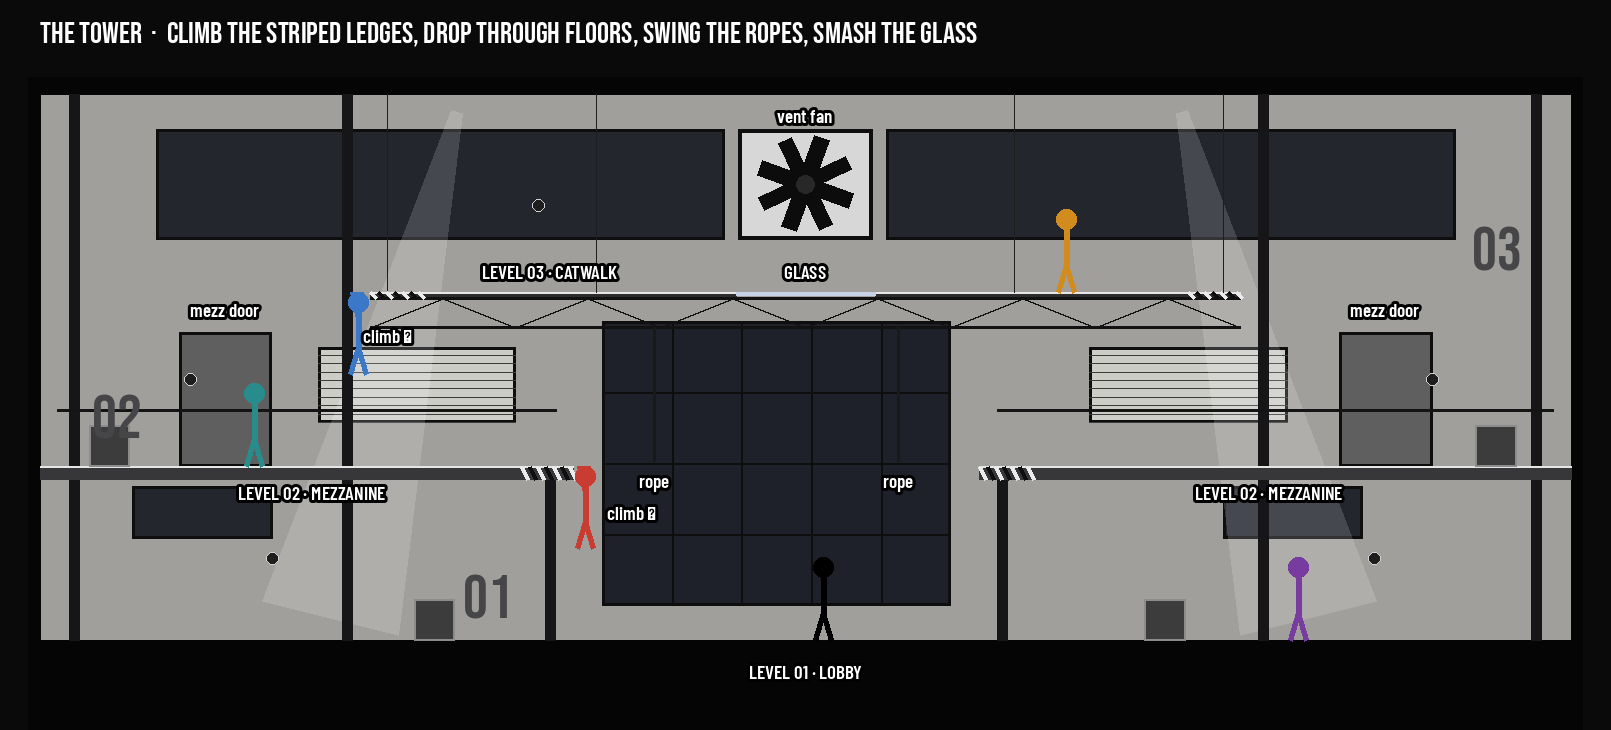
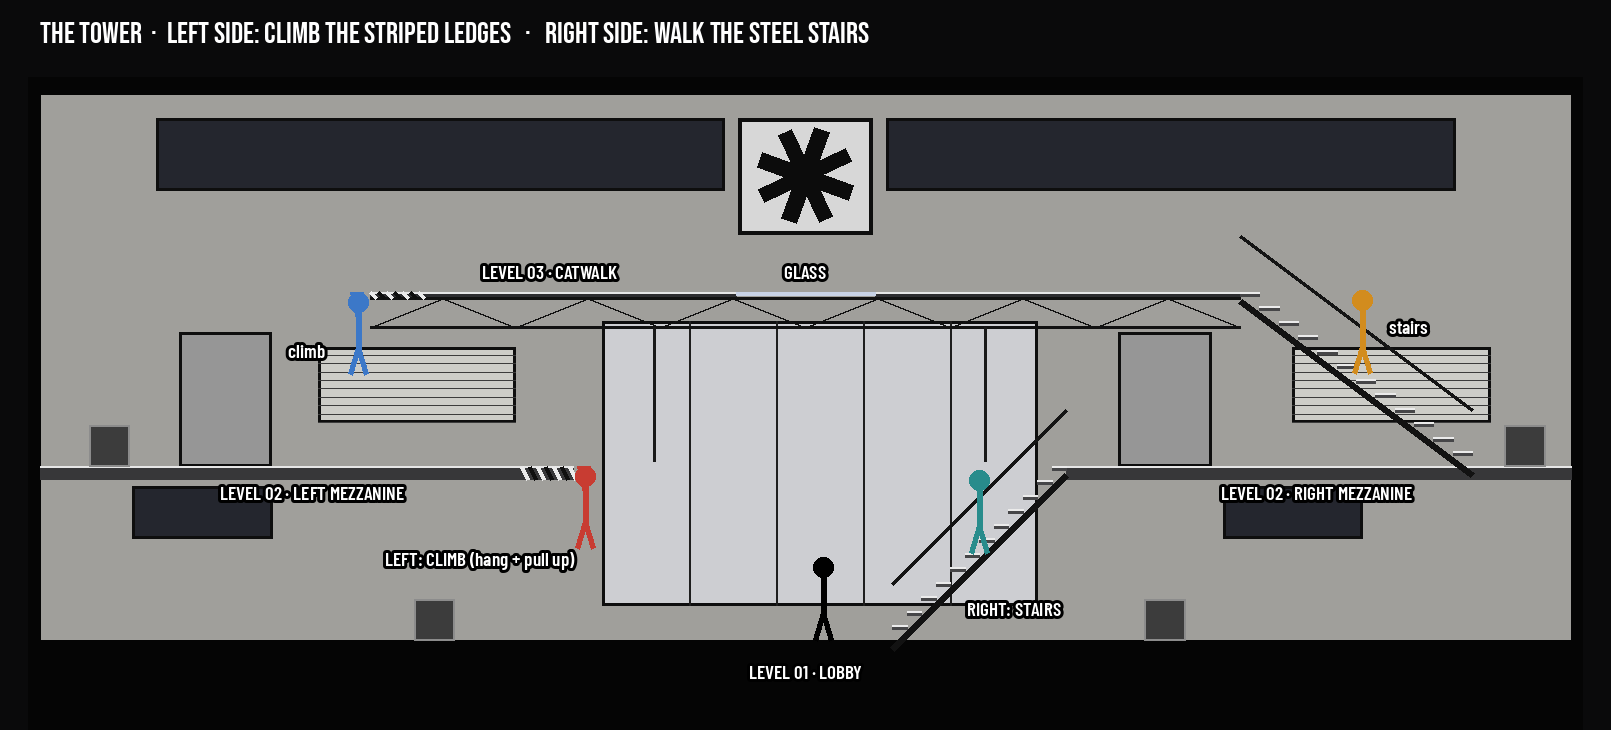
Tower: steel stairs on the right side (lobby to mezzanine, mezzanine to catwalk), climbing kept on the left
Claude-Session: https://claude.ai/code/session_015hMH19Q3ffBpefttWAikbH

Changed region(s): [[0.031, 0.1205, 0.9621, 0.874], [0.0931, 0.0301, 0.6207, 0.0603], [0.031, 0.663, 0.0621, 0.874]]

diff --git a/Assets/Scripts/Level/LevelNav.cs b/Assets/Scripts/Level/LevelNav.cs
@@ -26,31 +26,56 @@ namespace ProjectInk
         public float FootX => x - dir * 0.25f;
     }
 
+    /// <summary>A flight of stairs: walk on at the bottom (x0, y0) and up to the top (x1, y1),
+    /// joining two platforms.</summary>
+    public struct Stair
+    {
+        public float x0, y0, x1, y1;
+        public int bottom, top;
+        public Stair(float x0, float y0, float x1, float y1, int bottom, int top)
+        { this.x0 = x0; this.y0 = y0; this.x1 = x1; this.y1 = y1; this.bottom = bottom; this.top = top; }
+        public int UpDir => x1 > x0 ? 1 : -1;
+    }
+
     /// <summary>The tower: ground, two mezzanines with an open atrium between them, and a high
     /// catwalk (with a glass section in the middle) across the atrium. Shared by the scene
     /// builder (geometry) and the game (navigation), so the two always agree.</summary>
     public static class TowerPlan
     {
         public const float HalfW = 13.2f, RoofY = 9.4f, MezzY = 3.0f, CatY = 6.0f;
-        public const float MezzInnerL = -4.0f, MezzInnerR = 3.0f, CatEnd = 7.5f, GlassHalf = 1.2f;
+        public const float MezzInnerL = -4.0f, MezzInnerR = 4.5f, CatEnd = 7.5f, GlassHalf = 1.2f;
+        // the right side has stairs: a grand flight from the lobby to the right mezzanine (rising
+        // in front of the atrium window), and a flight from the mezzanine up to the catwalk
+        public const float StairLowX0 = 1.5f, StairUpX0 = 11.5f;
 
         public static readonly Platform[] Platforms =
         {
-            new Platform(-HalfW, HalfW, 0f, false),                     // 0 ground (solid)
+            new Platform(-HalfW, StairLowX0 - 0.1f, 0f, false),        // 0 lobby, left of the grand stairs (solid)
             new Platform(-HalfW, MezzInnerL, MezzY),                    // 1 left mezzanine
             new Platform(MezzInnerR, HalfW, MezzY),                     // 2 right mezzanine
             new Platform(-CatEnd, -GlassHalf, CatY),                    // 3 catwalk, left
             new Platform(-GlassHalf, GlassHalf, CatY, true, true),      // 4 the glass panel
             new Platform(GlassHalf, CatEnd, CatY),                      // 5 catwalk, right
+            new Platform(StairLowX0 + 0.5f, HalfW, 0f, false),          // 6 lobby, right of and under the grand stairs
         };
 
+        /// <summary>The left side climbs: hang from the edge and pull up.</summary>
         public static readonly Ledge[] Ledges =
         {
-            new Ledge(MezzInnerL, MezzY, -1),      // ground → left mezzanine (its inner edge)
-            new Ledge(MezzInnerR, MezzY, +1),      // ground → right mezzanine
+            new Ledge(MezzInnerL, MezzY, -1),      // lobby → left mezzanine (its inner edge)
             new Ledge(-CatEnd, CatY, +1),          // left mezzanine → catwalk (its left end)
-            new Ledge(CatEnd, CatY, -1),           // right mezzanine → catwalk
         };
+
+        /// <summary>The right side walks: two flights of open steel stairs.</summary>
+        public static readonly Stair[] Stairs =
+        {
+            new Stair(StairLowX0, 0f, MezzInnerR, MezzY, 0, 2),        // lobby → right mezzanine
+            new Stair(StairUpX0, MezzY, CatEnd, CatY, 2, 5),           // right mezzanine → catwalk
+        };
+
+        /// <summary>Walks that are not just "touching": from under the grand stairs you can walk
+        /// out to the left side of the lobby (but walking right from there takes the stairs).</summary>
+        public static readonly (int from, int to, float x)[] ExtraWalks = { (6, 0, StairLowX0 - 0.4f) };
     }
 
     /// <summary>Route-finding across the building's levels. For every pair of platforms it
@@ -59,17 +84,21 @@ namespace ProjectInk
     /// below). A breadth-first search gives the first step of the shortest route.</summary>
     public static class LevelNav
     {
-        public enum StepKind { None, Walk, Climb, Drop }
+        public enum StepKind { None, Walk, Climb, Drop, Stairs }
         public struct Step
         {
             public StepKind kind;
             public float x;          // where to go to take the step
             public int ledge;        // for Climb
             public int to;           // the platform it leads to
+            public int dir;          // for Stairs: which way to keep walking once on them
         }
 
         static Platform[] platforms;
         static Ledge[] ledges;
+        static Stair[] stairs;
+        static (int from, int to, float x)[] extraWalks;
+        public static IReadOnlyList<Stair> StairList => stairs;
         public static bool Active => platforms != null;
         public static IReadOnlyList<Platform> Platforms => platforms;
         public static IReadOnlyList<Ledge> Ledges => ledges;
@@ -78,8 +107,12 @@ namespace ProjectInk
         public static void Init(LayoutKind kind)
         {
             broken.Clear();
-            if (kind == LayoutKind.Tower) { platforms = TowerPlan.Platforms; ledges = TowerPlan.Ledges; }
-            else { platforms = null; ledges = null; }
+            if (kind == LayoutKind.Tower)
+            {
+                platforms = TowerPlan.Platforms; ledges = TowerPlan.Ledges;
+                stairs = TowerPlan.Stairs; extraWalks = TowerPlan.ExtraWalks;
+            }
+            else { platforms = null; ledges = null; stairs = null; extraWalks = null; }
         }
 
         public static void SetBroken(int platform, bool isBroken)
@@ -184,6 +217,18 @@ namespace ProjectInk
                     var B = platforms[j];
                     yield return new Step { kind = StepKind.Walk, to = j, x = Mathf.Clamp(tx, B.x0 + 0.2f, B.x1 - 0.2f) };
                 }
+            // stairs: up from their bottom platform, down from their top one
+            if (stairs != null)
+                foreach (var st in stairs)
+                {
+                    if (st.bottom == a && !broken.Contains(st.top))
+                        yield return new Step { kind = StepKind.Stairs, to = st.top, x = st.x0, dir = st.UpDir };
+                    if (st.top == a && !broken.Contains(st.bottom))
+                        yield return new Step { kind = StepKind.Stairs, to = st.bottom, x = st.x1, dir = -st.UpDir };
+                }
+            if (extraWalks != null)
+                foreach (var w in extraWalks)
+                    if (w.from == a) yield return new Step { kind = StepKind.Walk, to = w.to, x = w.x };
             // climb: any ledge whose foot stands on this platform
             for (int k = 0; k < ledges.Length; k++)
             {

diff --git a/Assets/Scripts/Editor/TowerBuilder.cs b/Assets/Scripts/Editor/TowerBuilder.cs
@@ -80,8 +80,8 @@ namespace ProjectInk.EditorTools
                 new Rect(mL + 0.5f, 0.6f, (mR - mL) - 1.0f, 4.9f),                                  // the tall atrium window
                 new Rect(-11.2f, 7.75f, 9.8f, 1.25f), new Rect(1.4f, 7.75f, 9.8f, 1.25f),           // the skylight band (above heads on the catwalk)
             };
-            var offices = new List<Rect> { new Rect(-8.4f, 3.75f, 3.4f, 1.3f), new Rect(4.9f, 3.75f, 3.4f, 1.3f) };
-            var doors = new List<Rect> { new Rect(-10.8f, mezz, 1.6f, 2.3f), new Rect(9.2f, mezz, 1.6f, 2.3f) };
+            var offices = new List<Rect> { new Rect(-8.4f, 3.75f, 3.4f, 1.3f), new Rect(8.4f, 3.75f, 3.4f, 1.3f) };
+            var doors = new List<Rect> { new Rect(-10.8f, mezz, 1.6f, 2.3f), new Rect(5.4f, mezz, 1.6f, 2.3f) };
             var fanHole = new Rect(-1.15f, 7.0f, 2.3f, 2.0f);
             var openings = new List<Rect>(windows);
             openings.AddRange(offices);
@@ -185,6 +185,9 @@ namespace ProjectInk.EditorTools
             foreach (float x in new[] { -7.2f, -3.6f, 3.6f, 7.2f })
                 NoCollider(PrototypeBuilder.Box(env, "Hanger", new Vector3(x, (cat + roof) * 0.5f, cz1 + 0.05f), new Vector3(0.03f, roof - cat, 0.03f), steel));
 
+            // ------------------------------------------------------------ the stairs (right side)
+            foreach (var st in TowerPlan.Stairs) SteelStairs(env, st, steel, steelMid, edgeWhite);
+
             // ------------------------------------------------------------ the ledges: hazard stripes say "climb here"
             foreach (var lg in TowerPlan.Ledges)
             {
@@ -215,7 +218,7 @@ namespace ProjectInk.EditorTools
             EnvironmentBuilder.Crate(props, new Vector3(-6.4f, 0f, 0f), 0.7f, crateMat, crateEdge);
             EnvironmentBuilder.Crate(props, new Vector3(6.2f, 0f, 0f), 0.7f, crateMat, crateEdge);
             EnvironmentBuilder.Crate(props, new Vector3(-12.0f, mezz, 0f), 0.7f, crateMat, crateEdge);
-            EnvironmentBuilder.Crate(props, new Vector3(11.9f, mezz, 0f), 0.7f, crateMat, crateEdge);
+            EnvironmentBuilder.Crate(props, new Vector3(12.4f, mezz, 0f), 0.7f, crateMat, crateEdge);
 
             // ------------------------------------------------------------ light
             EnvironmentBuilder.Lamp(env, new Vector3(-8.0f, mezz - SlabThick, 1.6f), 0.35f, shade, bulb, coneMat, lampGlow);
@@ -302,6 +305,53 @@ namespace ProjectInk.EditorTools
             PrototypeBuilder.Box(parent, name, new Vector3(cx, top - thick * 0.5f, (front + back) * 0.5f), new Vector3(w, thick, back - front), body);
             NoCollider(PrototypeBuilder.Box(parent, name + "Lip", new Vector3(cx, top - 0.015f, front - 0.012f), new Vector3(w, 0.03f, 0.01f), lip));
             NoCollider(PrototypeBuilder.Box(parent, name + "Beam", new Vector3(cx, top - thick - 0.12f, front + 0.25f), new Vector3(w, 0.24f, 0.18f), beam));
+        }
+
+        /// <summary>An open steel staircase from (x0, y0) to (x1, y1): a thin walkable slope
+        /// (one-way: you can walk underneath it), open treads with white nosings, a stringer on
+        /// each side and a handrail along the back.</summary>
+        static void SteelStairs(Transform parent, Stair st, Material steel, Material tread, Material nosing)
+        {
+            var root = new GameObject("Stairs").transform;
+            root.SetParent(parent, false);
+            float dx = st.x1 - st.x0, dy = st.y1 - st.y0;
+            float len = Mathf.Sqrt(dx * dx + dy * dy);
+            float ang = Mathf.Atan2(dy, dx) * Mathf.Rad2Deg;
+            const float z0 = -0.5f, z1 = 1.3f;
+            // the walkable slope: a thin collider along the line of the tread nosings
+            var mid = new Vector3((st.x0 + st.x1) * 0.5f, (st.y0 + st.y1) * 0.5f, (z0 + z1) * 0.5f);
+            var dir = new Vector3(dx, dy, 0f) / len;
+            var normal = new Vector3(-dir.y, dir.x, 0f);
+            if (normal.y < 0f) normal = -normal;
+            var ramp = new GameObject("StairSlope").transform;
+            ramp.SetParent(root, false);
+            ramp.position = mid - normal * 0.05f;
+            ramp.rotation = Quaternion.Euler(0f, 0f, ang);
+            var col = ramp.gameObject.AddComponent<BoxCollider>();
+            col.size = new Vector3(len, 0.1f, z1 - z0);
+            ramp.gameObject.isStatic = true;
+            // treads
+            int steps = Mathf.Max(6, Mathf.RoundToInt(Mathf.Abs(dy) / 0.25f));
+            float rise = dy / steps, run = dx / steps;
+            for (int i = 0; i < steps; i++)
+            {
+                float x = st.x0 + run * (i + 0.5f), y = st.y0 + rise * (i + 0.5f);
+                NoCollider(PrototypeBuilder.Box(root, "Tread", new Vector3(x, y - 0.03f, (z0 + z1) * 0.5f), new Vector3(Mathf.Abs(run) + 0.02f, 0.06f, z1 - z0), tread));
+                NoCollider(PrototypeBuilder.Box(root, "TreadNosing", new Vector3(x, y - 0.01f, z0 - 0.012f), new Vector3(Mathf.Abs(run) + 0.02f, 0.025f, 0.01f), nosing));
+            }
+            // stringers, front and back, and the handrail
+            foreach (float z in new[] { z0 - 0.03f, z1 + 0.03f })
+            {
+                var s1 = NoCollider(PrototypeBuilder.Box(root, "Stringer", mid + Vector3.down * 0.16f + new Vector3(0f, 0f, z - mid.z), new Vector3(len + 0.1f, 0.22f, 0.05f), steel));
+                s1.rotation = Quaternion.Euler(0f, 0f, ang);
+            }
+            var rail = NoCollider(PrototypeBuilder.Box(root, "StairRail", mid + Vector3.up * 0.95f + new Vector3(0f, 0f, z1 + 0.05f - mid.z), new Vector3(len, 0.04f, 0.04f), steel));
+            rail.rotation = Quaternion.Euler(0f, 0f, ang);
+            for (int k = 0; k <= 4; k++)
+            {
+                var p = new Vector3(Mathf.Lerp(st.x0, st.x1, k / 4f), Mathf.Lerp(st.y0, st.y1, k / 4f), z1 + 0.05f);
+                NoCollider(PrototypeBuilder.Box(root, "StairPost", p + Vector3.up * 0.475f, new Vector3(0.03f, 0.95f, 0.03f), steel));
+            }
         }
 
         /// <summary>A slim handrail on posts along a floor, at depth z (behind the fighters).</summary>

diff --git a/Assets/Scripts/Combat/Enemy.cs b/Assets/Scripts/Combat/Enemy.cs
@@ -283,6 +283,7 @@ namespace ProjectInk
         // ------------------------------------------------------------------ the tower: route-finding
 
         int navPlatform = -1;
+        int stairDir;          // while on a flight of stairs: the way we are going
 
         /// <summary>Get to the hero's level: walk, climb the next ledge on the route, or drop
         /// through the floor (fighters with an attack token pounce straight onto the hero instead).
@@ -296,7 +297,8 @@ namespace ProjectInk
             if (Ranged && Mathf.Abs(dx) < 9f && Mathf.Abs(dy) < 6.5f) { FireAcrossLevels(); return; }
 
             int me = LevelNav.PlatformAt(p);
-            if (me < 0) { Walk(Mathf.Sign(dx)); return; }
+            if (me >= 0) stairDir = 0;
+            if (me < 0) { Walk(stairDir != 0 ? stairDir : Mathf.Sign(dx)); return; }   // on a flight of stairs: keep going
             var step = LevelNav.Next(me, p.x, hero.Platform, hero.transform.position.x);
             if (step.kind == LevelNav.StepKind.None)
             {
@@ -308,6 +310,14 @@ namespace ProjectInk
             }
             float d = step.x - p.x;
             if (step.kind == LevelNav.StepKind.Walk) { Walk(Mathf.Sign(d)); return; }
+            if (step.kind == LevelNav.StepKind.Stairs)
+            {
+                // walk to the foot (or head) of the flight, then straight on up (or down) it
+                if (Mathf.Abs(d) > 0.2f && Mathf.Sign(d) != step.dir) { Walk(Mathf.Sign(d)); return; }
+                stairDir = step.dir;
+                Walk(step.dir);
+                return;
+            }
             if (Mathf.Abs(d) > 0.15f) { Walk(Mathf.Sign(d) * (Mathf.Abs(d) < 0.6f ? 0.6f : 1f)); return; }
             velocity.x = 0f;
 

diff --git a/Assets/Scripts/Combat/Fighter.cs b/Assets/Scripts/Combat/Fighter.cs
@@ -146,7 +146,8 @@ namespace ProjectInk
                 below.y = Mathf.Min(below.y, ProbeCeiling);
                 return Physics.Raycast(below, Vector3.down, out var hit, 40f, ~0, QueryTriggerInteraction.Ignore) ? hit.point.y : 0f;
             }
-            return GroundY(p);
+            // walking: step up at most a stair's worth, so you pass under open stairs and slabs
+            return GroundY(p, LevelNav.Active ? 0.35f : 0.9f);
         }
 
         /// <summary>Move by velocity, apply gravity, land on the ground and follow stairs.

diff --git a/Assets/Scripts/Editor/PrototypeBuilder.cs b/Assets/Scripts/Editor/PrototypeBuilder.cs
@@ -20,7 +20,7 @@ namespace ProjectInk.EditorTools
         const string ScenePath = "Assets/Scenes/Prototype.unity";
         const string ApkPath = "build/Android/StickWick.apk";
         /// <summary>Bump whenever the generated scene changes; open editors rebuild it on pull.</summary>
-        public const int SceneVersion = 16;
+        public const int SceneVersion = 17;
         public const string VersionFile = "Assets/Generated/scene_version.txt";
 
         const string HallScenePath = "Assets/Scenes/ClassicHall.unity";

diff --git a/Assets/Scripts/Core/HeroSpot.cs b/Assets/Scripts/Core/HeroSpot.cs
@@ -64,7 +64,7 @@ namespace ProjectInk
             if (hero == null) { Destroy(gameObject); return; }
             if (pool == null) { Build(); if (pool == null) return; }
             var p = hero.transform.position;
-            float ground = Fighter.GroundY(p + Vector3.up * 0.2f);
+            float ground = Fighter.GroundY(p, 0.3f);
             float height = Mathf.Max(0f, p.y - ground);
             // crowded: someone within 1.6 m makes the pool brighter
             float crowd = 0f;

diff --git a/DEVLOG.md b/DEVLOG.md
@@ -446,3 +446,16 @@ Feedback: zoomed out, enemies were too small; the camera showed past the buildin
 - Removed the fighter outline at the user's request: `InkOutline`, its shader, the read/write model import and the preview image.
 - The other readability fixes stay: the backlit atrium window, the skylight above head height, lit door corridors and the softer vignette.
 - `SceneVersion` → 16, so the scene rebuilds without it.
+
+## 2026-11-04: 0.7.6 stairs on the right side of the tower
+
+Feedback: instead of climbing on both sides, use steps on one side.
+- **Left side:** climbing, as before (lobby → left mezzanine edge, left mezzanine → catwalk end).
+- **Right side:** two flights of open steel stairs.
+    - A grand flight from the lobby (x 1.5) up to the right mezzanine's inner edge (x 4.5, y 3). It rises in front of the backlit atrium window; the mezzanine's inner edge moved from 3.0 to 4.5 to meet it.
+    - A flight from the right mezzanine (x 11.5) up to the catwalk's right end (x 7.5, y 6).
+    - Each flight is a thin one-way slope collider with open treads, white nosings, two stringers, a handrail and posts.
+- **Walking under stairs:** while walking, fighters now step up at most 0.35 m (in the tower), so they pass under the stairs and slabs instead of being lifted onto them. Walking right in the left lobby takes you up the grand stairs; from under them you can walk out to the left.
+- **Route-finding:** new `Stairs` steps. Enemies walk to the foot (or head) of a flight and keep going until they're off it. The lobby is split in two for routing, with a walk-under link. Ten routes checked.
+- The right mezzanine door moved to x 5.4–7.0, the right office window to x 8.4–11.8 (behind the upper flight), and the crate to x 12.4.
+- `SceneVersion` → 17. Diagram updated: `docs/previews/tower_layout.png`.

diff --git a/README.md b/README.md
@@ -43,7 +43,8 @@ How it's built:
 ### The tower (main building)
 
 Three levels: the **lobby**, two **mezzanines** with an open atrium between them, and a **steel catwalk** across the top with a **glass panel** in the middle.
-- **Climb:** swipe up near a **striped ledge**. The hero jumps, hangs by the hands and pulls himself up.
+- **Left side, climb:** swipe up near a **striped ledge**. The hero jumps, hangs by the hands and pulls himself up.
+- **Right side, stairs:** a grand steel staircase from the lobby to the right mezzanine, and a second flight up to the catwalk. Just run.
 - **Drop:** swipe down to drop through a mezzanine or the catwalk, or just run off an edge.
 - **Ropes:** swing across the atrium. Bars are under and over the mezzanines.
 - **Throw enemies:** off the edges, or **through the glass**: a 6-metre fall.
